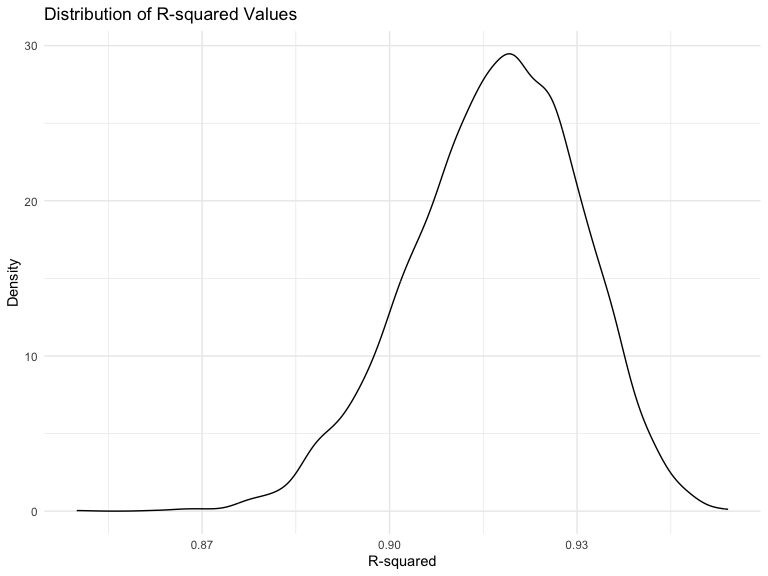
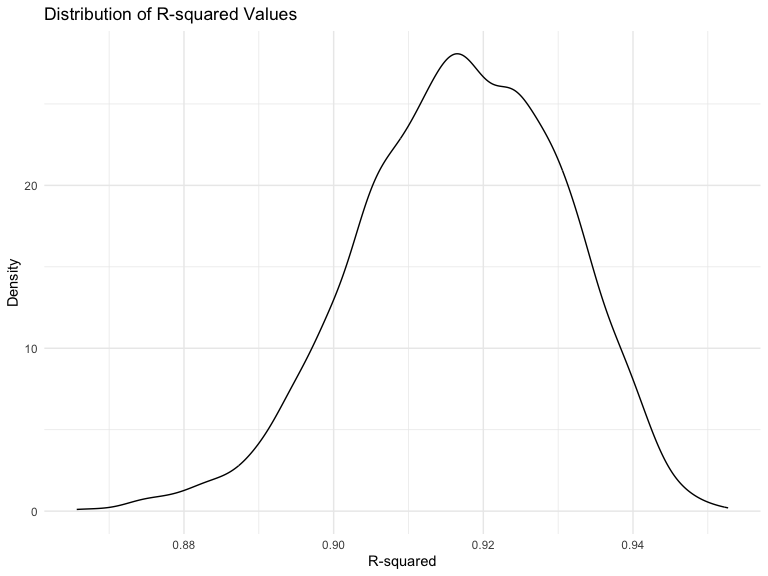
Editing problem 3

diff --git a/p8105_hw6_sm5567.md b/p8105_hw6_sm5567.md
@@ -254,7 +254,7 @@ r_squared %>%
 
 | lower_limit | upper_limit |
 |------------:|------------:|
-|       0.889 |        0.94 |
+|       0.889 |       0.941 |
 
 - The 95% confidence interval for R^2 is (0.888, 0.941)
 
@@ -307,44 +307,128 @@ log_estimate %>%
 
 | lower_limit | upper_limit |
 |------------:|------------:|
-|      -8.884 |      -4.558 |
+|      -8.779 |       -4.64 |
 
 - The 95% confidence interval for log(beta_0 \* beta_1) lies between
-  (-8.007 and -4.615)
+  (-8.779 and -4.64)
 
 ## Problem 3
 
-``` r
-library(tidyverse)
-library(modelr)
-library(mgcv)
-```
-
-    ## Loading required package: nlme
-
-    ## 
-    ## Attaching package: 'nlme'
-
-    ## The following object is masked from 'package:dplyr':
-    ## 
-    ##     collapse
-
-    ## This is mgcv 1.9-0. For overview type 'help("mgcv-package")'.
-
-``` r
-set.seed(1)
-```
+## Loading all the necessary packages
 
 ## Loading and cleaning the data for regression analysis.
 
-## Propose a regression model for birthweight. This model may be based on a hypothesized structure for the factors that underly birthweight, on a data-driven model-building process, or a combination of the two. Describe your modeling process and show a plot of model residuals against fitted values – use add_predictions and add_residuals in making this plot.
+``` r
+birthweight_data = 
+  read_csv("birthweight.csv") %>%  
+  janitor::clean_names() %>%
+  mutate(
+    babysex = as.factor(babysex),
+    frace = as.factor(frace),
+    malform = as.factor(malform),
+    mrace = as.factor(mrace)
+  )
+```
 
-## Compare your model to two others:
+    ## Rows: 4342 Columns: 20
+    ## ── Column specification ────────────────────────────────────────────────────────
+    ## Delimiter: ","
+    ## dbl (20): babysex, bhead, blength, bwt, delwt, fincome, frace, gaweeks, malf...
+    ## 
+    ## ℹ Use `spec()` to retrieve the full column specification for this data.
+    ## ℹ Specify the column types or set `show_col_types = FALSE` to quiet this message.
 
-One using length at birth and gestational age as predictors (main
-effects only) One using head circumference, length, sex, and all
-interactions (including the three-way interaction) between these
+## Proposing a regression model for birthweight.
 
-## Make this comparison in terms of the cross-validated prediction error; use crossv_mc and functions in purrr as appropriate.
+``` r
+fit_birthweight = lm(bwt ~ smoken + pnumlbw + momage, data = birthweight_data)
+fit_birthweight %>%  broom::tidy()
+```
 
-## Note that although we expect your model to be reasonable, model building itself is not a main idea of the course and we don’t necessarily expect your model to be “optimal”.
+    ## # A tibble: 4 × 5
+    ##   term        estimate std.error statistic   p.value
+    ##   <chr>          <dbl>     <dbl>     <dbl>     <dbl>
+    ## 1 (Intercept)  2758.       40.9      67.4   0       
+    ## 2 smoken         -5.97      1.04     -5.75  9.68e- 9
+    ## 3 pnumlbw        NA        NA        NA    NA       
+    ## 4 momage         18.8       1.98      9.47  4.50e-21
+
+## Showing a plot of model residuals against fitted values – use add_predictions and add_residuals in making this plot:
+
+``` r
+# Adding residuals and predictions to birthweight_data
+residuals_predictions_data =
+  birthweight_data %>%  
+  modelr::add_residuals(fit_birthweight) %>%
+  modelr::add_predictions(fit_birthweight)
+
+# Creating a scatter plot of residuals against fitted values
+ggplot(residuals_predictions_data, aes(x = pred, y = resid)) + 
+  geom_point() +
+  labs(
+    title = "Residuals vs Fitted Values",
+    x = "Fitted",
+    y = "Residuals"
+  )
+```
+
+<img src="p8105_hw6_sm5567_files/figure-gfm/unnamed-chunk-12-1.png" width="90%" />
+
+## Comparing your model to two others:
+
+``` r
+fit_birthweight2 = lm(bwt ~ + blength + gaweeks, data = birthweight_data)
+fit_birthweight3 = lm(bwt ~ bhead + bhead * blength * babysex, data = birthweight_data)
+```
+
+- These lines of code are fitting two different linear regression models
+  to the `birthweight_data` dataset. The first model `fit_birthweight2`
+  considers birth length and gestational age as main effects, while the
+  second model `fit_birthweight3` includes head circumference, birth
+  length, sex, and all interactions between them, up to the three-way
+  interaction
+
+## Making this comparison in terms of the cross-validated prediction error; use crossv_mc and functions in purrr as appropriate:
+
+``` r
+cv_df = 
+  crossv_mc(birthweight_data, 100) %>%
+  mutate(
+    train = map(train, as_tibble),
+    test = map(test, as_tibble)
+  )
+```
+
+``` r
+cv_df = 
+  cv_df %>%  
+  mutate(
+   mod_1 = map(.x = train, ~lm(bwt ~ smoken + pnumlbw + momage, data = .x)),
+   mod_2 = map(.x = train, ~lm(bwt ~ + blength + gaweeks, data = .x)),
+   mod_3 = map(.x = train, ~lm(bwt ~ bhead + bhead * blength * babysex, data = .x))
+  ) %>%  
+  mutate(
+    rmse_mod1 = map2_dbl(mod_1, .y = test, ~rmse(model = .x, data = .y)),
+    rmse_mod2 = map2_dbl(mod_2, .y = test, ~rmse(model = .x, data = .y)),
+    rmse_mod3 = map2_dbl(mod_3, .y = test, ~rmse(model = .x, data = .y))
+  )
+```
+
+# Creating a violin plot using the x-axis represents the different models, the y-axis represents the RMSE values, and showing the distribution of the RMSE for each model.
+
+``` r
+cv_df %>% 
+  select(starts_with("rmse")) %>%
+  pivot_longer(
+    everything(),
+    names_to = "model", 
+    values_to = "rmse",
+    names_prefix = "rmse_") %>% 
+  mutate(model = fct_inorder(model)) %>% 
+  ggplot(aes(x = model, y = rmse)) + geom_violin() +
+  labs(
+    title = "Comparison of the Three Models"
+    ) 
+```
+
+<img src="p8105_hw6_sm5567_files/figure-gfm/unnamed-chunk-16-1.png" width="90%" />
